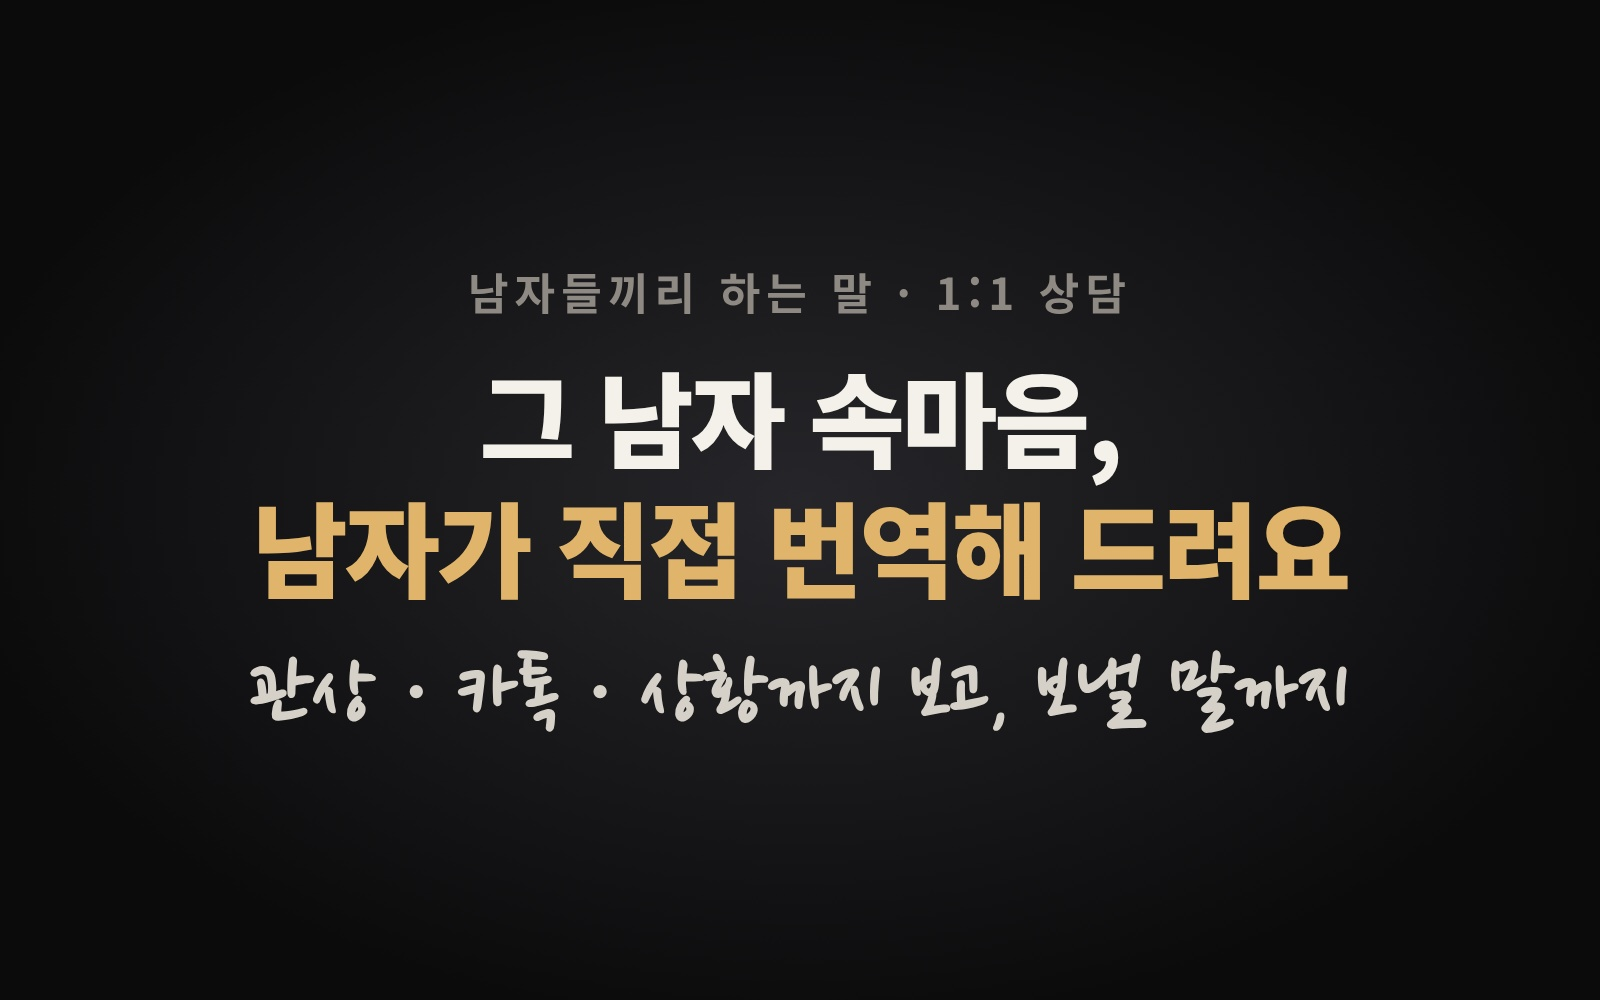
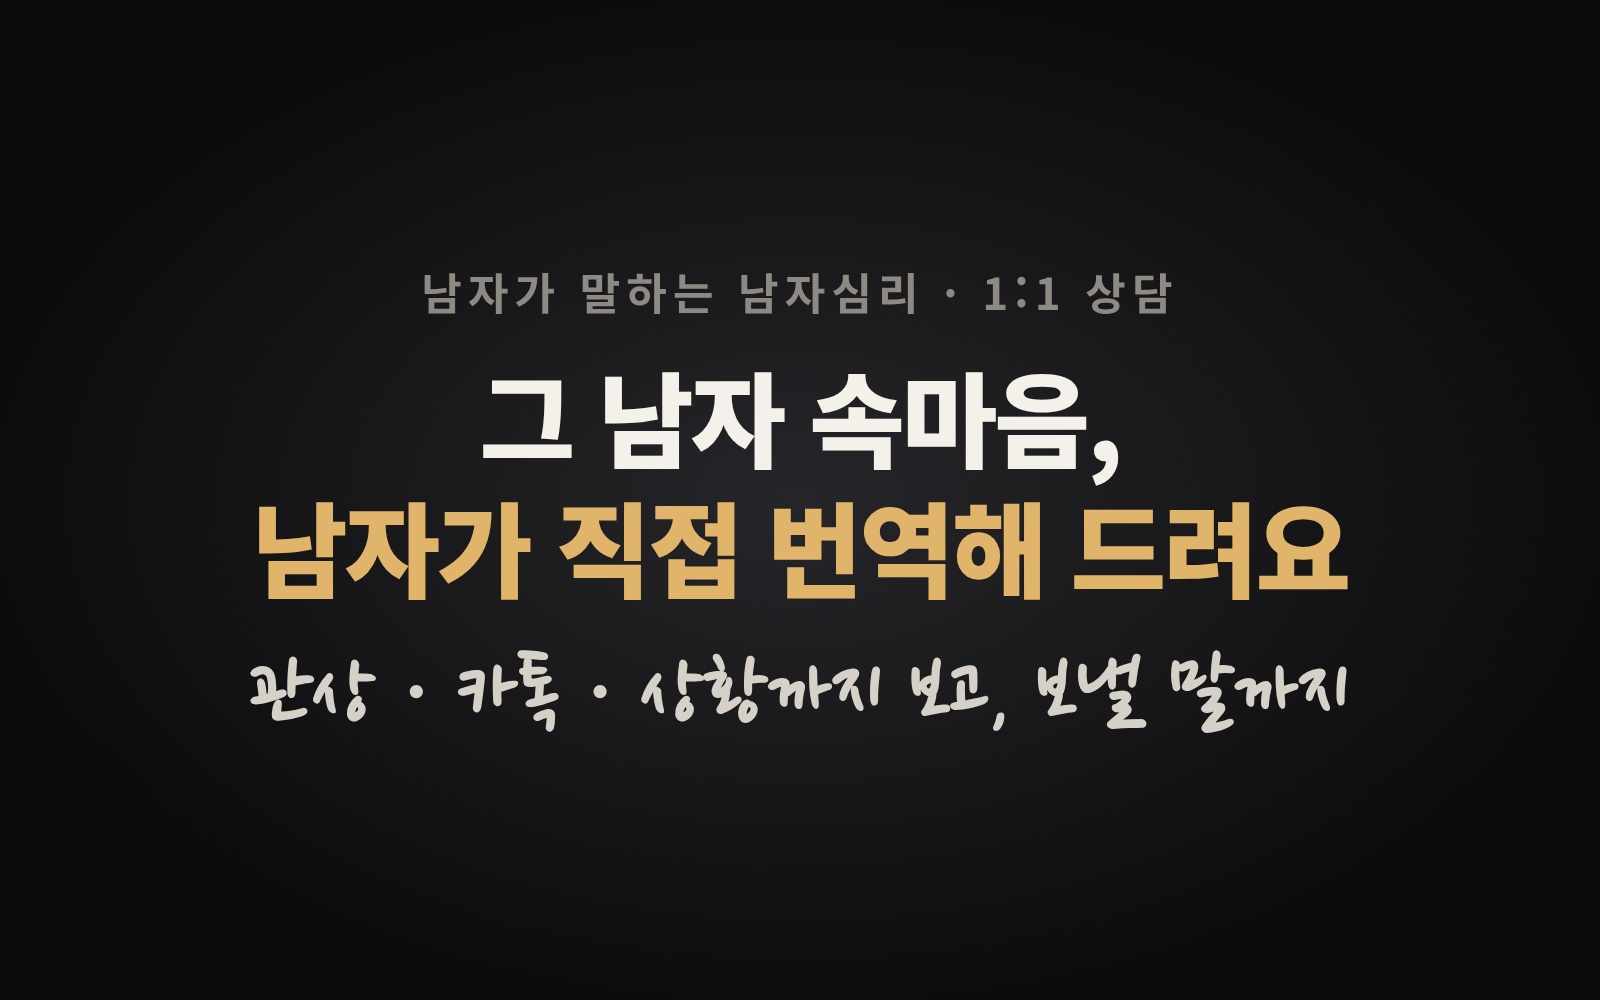
카카오채널 프로필·배경에 '남자가 말하는 남자심리' 넣기
Claude-Session: https://claude.ai/code/session_01J9i5yL8MFhQ5W67Sx3nDW6

Changed region(s): [[0.25, 0.279, 0.75, 0.341]]

diff --git a/carousel/kakao/kakao.html b/carousel/kakao/kakao.html
@@ -6,12 +6,12 @@
 .a{color:#e0b46a}
 #prof{width:640px;height:640px;background:radial-gradient(circle at 50% 42%,#2a2a2e 0%,#0b0b0c 70%);display:flex;flex-direction:column;align-items:center;justify-content:center;text-align:center;margin-bottom:20px}
 #prof .pen{font-size:132px}
-#prof .s{margin-top:22px;font-size:30px;font-weight:700;color:#8e8a83;letter-spacing:.12em}
+#prof .s{margin-top:26px;font-size:36px;font-weight:900;color:#cfcac1;letter-spacing:.02em}
 #bg{width:800px;height:500px;background:radial-gradient(ellipse at 50% 50%,#26262a 0%,#0b0b0c 75%);display:flex;flex-direction:column;align-items:center;justify-content:center;text-align:center}
 #bg .k{font-size:22px;font-weight:700;color:#8e8a83;letter-spacing:.14em}
 #bg .t{font-size:52px;font-weight:900;letter-spacing:-0.03em;line-height:1.25;margin-top:14px}
 #bg .pen{font-size:46px;margin-top:18px;color:#d6d1c8}
 </style></head><body>
-<div id="prof"><div class="pen">남자들끼리<br><span class="a">하는 말</span></div><div class="s">박지훈 · 남자 심리 분석</div></div>
-<div id="bg"><div class="k">남자들끼리 하는 말 · 1:1 상담</div><div class="t">그 남자 속마음,<br><span class="a">남자가 직접 번역해 드려요</span></div><div class="pen">관상 · 카톡 · 상황까지 보고, 보낼 말까지</div></div>
+<div id="prof"><div class="pen">남자들끼리<br><span class="a">하는 말</span></div><div class="s">남자가 말하는 남자심리</div></div>
+<div id="bg"><div class="k">남자가 말하는 남자심리 · 1:1 상담</div><div class="t">그 남자 속마음,<br><span class="a">남자가 직접 번역해 드려요</span></div><div class="pen">관상 · 카톡 · 상황까지 보고, 보낼 말까지</div></div>
 </body></html>
